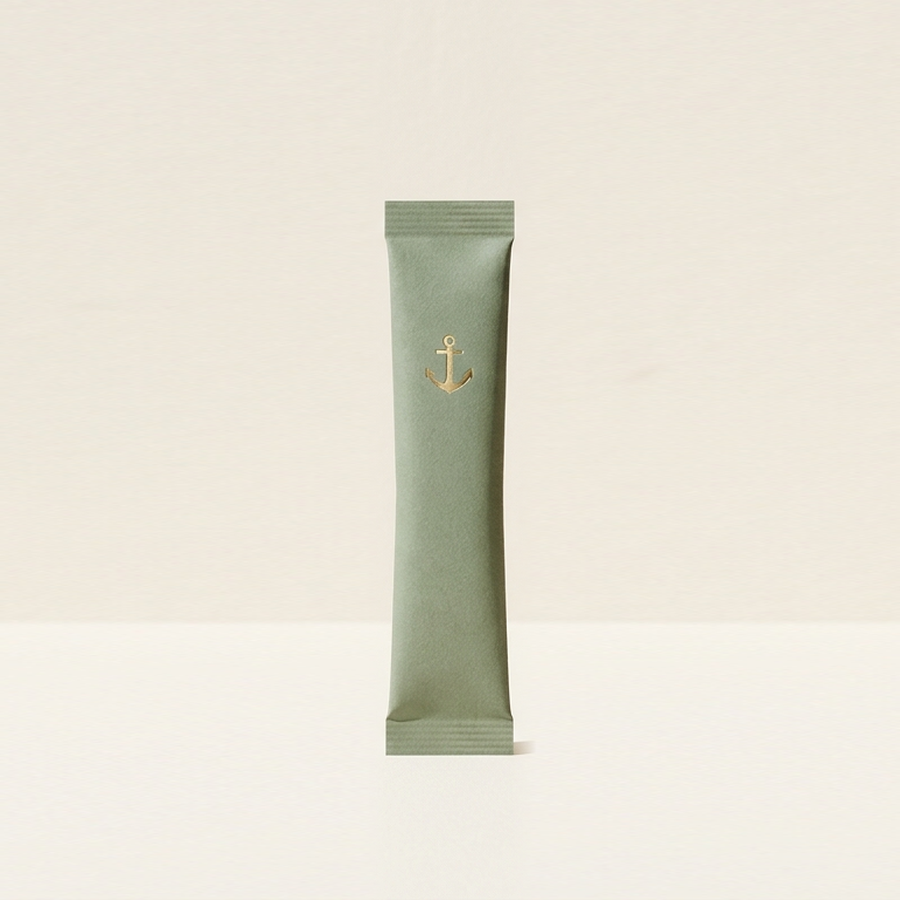
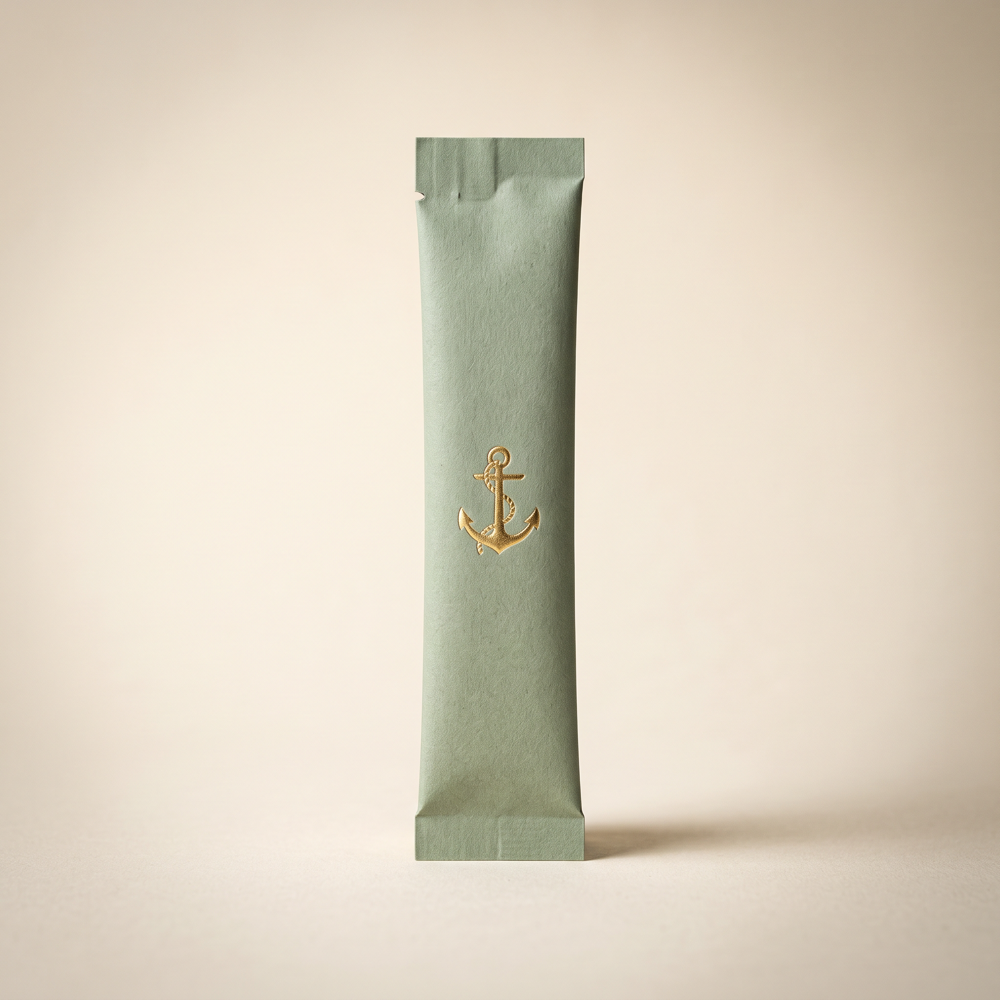
feat: Purchase Now button, new stick photos, blue/white section pattern
- Replace add-to-cart bubble + "See formula" link with a single full-width
  Purchase Now button per formula panel
- Swap in new product stick photography (GI Relief, Muscle Guard, Complete)
- Merge Gap section + stats bar into one navy section, fix text contrast
- Make Inside Every Stick section navy (was cream, matched Gap above it)
- Make Real People Real Results section white (was dark), fix text contrast

diff --git a/styles.css b/styles.css
@@ -268,20 +268,21 @@ h2 { font-size: clamp(1.9rem, 3.5vw, 2.8rem); }
 .stat-sep { width: 1px; height: 2.5rem; background: rgba(255,255,255,.12); }
 
 /* ===== SCIENCE ===== */
-.science-section { background: var(--cream); }
+.science-section { background: var(--ink); }
+.science-section h2 { color: #fff; }
 .science-inner { display: grid; grid-template-columns: 1fr 1fr; gap: 4rem; align-items: stretch; }
 .sci-chart { display: flex; flex-direction: column; justify-content: center; }
 .sci-chart .bars { gap: 1.6rem; }
-.sci-body { font-size: .95rem; margin-bottom: 1rem; }
+.sci-body { font-size: .95rem; margin-bottom: 1rem; color: rgba(255,255,255,.65); }
 .sci-badges { display: flex; flex-wrap: wrap; gap: .5rem; margin-top: 1.5rem; }
-.badge { font-family: -apple-system, sans-serif; font-size: .7rem; font-weight: 600; letter-spacing: .06em; text-transform: uppercase; border: 1.5px solid var(--ink); border-radius: var(--rad-pill); padding: .35rem 1rem; color: var(--ink); }
-.chart-title { font-family: -apple-system, sans-serif; font-size: .78rem; letter-spacing: .05em; color: var(--muted); margin-bottom: 1.2rem; }
+.badge { font-family: -apple-system, sans-serif; font-size: .7rem; font-weight: 600; letter-spacing: .06em; text-transform: uppercase; border: 1.5px solid rgba(255,255,255,.35); border-radius: var(--rad-pill); padding: .35rem 1rem; color: #fff; }
+.chart-title { font-family: -apple-system, sans-serif; font-size: .78rem; letter-spacing: .05em; color: rgba(255,255,255,.6); margin-bottom: 1.2rem; }
 .bars { display: flex; flex-direction: column; gap: 1rem; }
 .bar-row { display: grid; grid-template-columns: 90px 1fr 40px; align-items: center; gap: .8rem; }
-.bar-row span { font-family: -apple-system, sans-serif; font-size: .8rem; color: var(--muted); }
-.bar-row strong { font-family: -apple-system, sans-serif; font-size: .8rem; font-weight: 700; }
-.bar { height: 10px; background: rgba(0,0,0,.08); border-radius: 100px; overflow: hidden; }
-.bar i { display: block; height: 100%; width: 0; background: var(--terra); border-radius: 100px; transition: width 1s cubic-bezier(.2,0,.2,1); }
+.bar-row span { font-family: -apple-system, sans-serif; font-size: .8rem; color: rgba(255,255,255,.6); }
+.bar-row strong { font-family: -apple-system, sans-serif; font-size: .8rem; font-weight: 700; color: #fff; }
+.bar { height: 10px; background: rgba(255,255,255,.12); border-radius: 100px; overflow: hidden; }
+.bar i { display: block; height: 100%; width: 0; background: var(--gold); border-radius: 100px; transition: width 1s cubic-bezier(.2,0,.2,1); }
 
 /* ===== INSIDE EVERY STICK (dark accordion) ===== */
 .inside-dark {
@@ -355,10 +356,10 @@ h2 { font-size: clamp(1.9rem, 3.5vw, 2.8rem); }
 .acc-item.open .acc-a { display: block; }
 
 /* ===== PROTOCOL (three-phase tabs) ===== */
-.protocol-section { background: var(--cream); }
+.protocol-section { background: var(--ink); }
 .protocol-head { text-align: center; max-width: 640px; margin: 0 auto 3rem; }
-.protocol-head h2 { font-size: clamp(1.8rem, 3.4vw, 2.6rem); margin: .5rem 0 .8rem; }
-.protocol-sub { font-family: -apple-system, sans-serif; font-size: .95rem; }
+.protocol-head h2 { font-size: clamp(1.8rem, 3.4vw, 2.6rem); margin: .5rem 0 .8rem; color: #fff; }
+.protocol-sub { font-family: -apple-system, sans-serif; font-size: .95rem; color: rgba(255,255,255,.65); }
 
 .protocol-tabs {
   display: grid;
@@ -394,16 +395,16 @@ h2 { font-size: clamp(1.9rem, 3.5vw, 2.8rem); }
 .protocol-panel { display: none; }
 .protocol-panel.active { display: block; }
 .protocol-panel-eyebrow { display: block; font-family: -apple-system, sans-serif; font-size: .72rem; font-weight: 700; letter-spacing: .12em; text-transform: uppercase; color: var(--accent); margin-bottom: .8rem; }
-.protocol-panel h3 { font-size: clamp(1.5rem, 2.6vw, 2rem); margin-bottom: 1rem; }
-.protocol-panel p { font-family: -apple-system, sans-serif; font-size: .95rem; margin-bottom: 1.5rem; }
+.protocol-panel h3 { font-size: clamp(1.5rem, 2.6vw, 2rem); margin-bottom: 1rem; color: #fff; }
+.protocol-panel p { font-family: -apple-system, sans-serif; font-size: .95rem; margin-bottom: 1.5rem; color: rgba(255,255,255,.65); }
 .protocol-list { list-style: none; margin-bottom: 2rem; }
 .protocol-list li {
   position: relative;
   font-family: -apple-system, sans-serif;
   font-size: .92rem;
-  color: var(--ink);
+  color: rgba(255,255,255,.85);
   padding: .8rem 0 .8rem 1.3rem;
-  border-top: 1px solid var(--border);
+  border-top: 1px solid rgba(255,255,255,.12);
 }
 .protocol-list li::before {
   content: '';
@@ -415,20 +416,18 @@ h2 { font-size: clamp(1.9rem, 3.5vw, 2.8rem); }
   border-radius: 50%;
   background: var(--accent, var(--gold));
 }
-.protocol-list li:last-child { border-bottom: 1px solid var(--border); }
-.protocol-recommend {
-  display: flex;
-  align-items: center;
-  flex-wrap: wrap;
-  gap: .5rem 1.2rem;
-  background: var(--cream);
-  border-left: 3px solid var(--accent, var(--gold));
-  border-radius: 8px;
-  padding: 1.1rem 1.4rem;
+.protocol-list li:last-child { border-bottom: 1px solid rgba(255,255,255,.12); }
+.btn-buy {
+  display: block;
+  width: 100%;
+  background: var(--white);
+  color: var(--ink);
+  border-color: var(--white);
+  padding: 1.05rem 1.4rem;
+  font-size: .95rem;
+  text-align: center;
 }
-.protocol-recommend-label { font-family: -apple-system, sans-serif; font-size: .68rem; font-weight: 700; letter-spacing: .1em; text-transform: uppercase; color: var(--muted); width: 100%; }
-.protocol-recommend .btn { flex-shrink: 0; padding: .5rem 1.4rem; }
-.protocol-recommend a { font-family: -apple-system, sans-serif; font-size: .85rem; font-weight: 700; color: var(--ink); text-decoration: underline; }
+.btn-buy:hover { background: var(--accent, var(--gold)); border-color: var(--accent, var(--gold)); color: #fff; }
 
 .protocol-visual {
   position: relative;
@@ -460,10 +459,10 @@ body.theme-light .protocol-section { background: #fff; }
 }
 
 /* ===== REEL CAROUSEL ===== */
-.reel-section { padding: 4rem 0; background: var(--ink); overflow: hidden; }
-.reel-head { text-align: center; margin-bottom: 2.5rem; color: #fff; }
-.reel-head h2 { color: #fff; font-size: clamp(1.7rem, 3vw, 2.4rem); }
-.reel-head p { color: rgba(255,255,255,.7); font-family: -apple-system, sans-serif; font-size: .9rem; margin-top: .4rem; }
+.reel-section { padding: 4rem 0; background: var(--white); overflow: hidden; }
+.reel-head { text-align: center; margin-bottom: 2.5rem; color: var(--ink); }
+.reel-head h2 { color: var(--ink); font-size: clamp(1.7rem, 3vw, 2.4rem); }
+.reel-head p { color: rgba(19,25,32,.6); font-family: -apple-system, sans-serif; font-size: .9rem; margin-top: .4rem; }
 .reel-carousel-wrap { overflow: hidden; }
 .reel-carousel {
   display: flex;

diff --git a/index.html b/index.html
@@ -231,11 +231,7 @@
           <li><strong>Soluble fiber, 5g</strong> — keeps things moving without cramping</li>
           <li><strong>Electrolyte blend, 720mg</strong> — replaces what slowed digestion blocks</li>
         </ul>
-        <div class="protocol-recommend">
-          <span class="protocol-recommend-label">Recommended</span>
-          <button type="button" class="btn btn-ink btn-sm add-btn" data-id="gi" data-name="GI Relief" data-price="69.99" data-img="images/stick-gi-relief.png" data-sub="30 sticks">Add to Cart — $69.99</button>
-          <a href="#gi-relief">See formula →</a>
-        </div>
+        <button type="button" class="btn btn-buy add-btn" data-id="gi" data-name="GI Relief" data-price="69.99" data-img="images/stick-gi-relief.png" data-sub="30 sticks">Purchase Now — $69.99</button>
       </div>
 
       <div class="protocol-panel" data-phase="2" style="--accent:#b4674a">
@@ -248,11 +244,7 @@
           <li><strong>Creatine monohydrate, 3g</strong> — preserves strength and power output</li>
           <li><strong>Leucine, 2.5g</strong> — the trigger dose for muscle protein synthesis</li>
         </ul>
-        <div class="protocol-recommend">
-          <span class="protocol-recommend-label">Recommended</span>
-          <button type="button" class="btn btn-gold btn-sm add-btn" data-id="mg" data-name="Muscle Guard" data-price="69.99" data-img="images/stick-muscle-guard.png" data-sub="30 sticks">Add to Cart — $69.99</button>
-          <a href="#muscle-guard">See formula →</a>
-        </div>
+        <button type="button" class="btn btn-buy add-btn" data-id="mg" data-name="Muscle Guard" data-price="69.99" data-img="images/stick-muscle-guard.png" data-sub="30 sticks">Purchase Now — $69.99</button>
       </div>
 
       <div class="protocol-panel" data-phase="3" style="--accent:#42618c">
@@ -265,11 +257,7 @@
           <li><strong>Vitamin D3, 2000 IU</strong> — mood, bone, and immune support</li>
           <li><strong>Sodium blend, 1000mg</strong> — hydration and blood pressure baseline</li>
         </ul>
-        <div class="protocol-recommend">
-          <span class="protocol-recommend-label">Recommended</span>
-          <button type="button" class="btn btn-ink btn-sm add-btn" data-id="cp" data-name="Complete" data-price="69.99" data-img="images/stick-navy.png" data-sub="30 sticks">Add to Cart — $69.99</button>
-          <a href="#complete">See formula →</a>
-        </div>
+        <button type="button" class="btn btn-buy add-btn" data-id="cp" data-name="Complete" data-price="69.99" data-img="images/stick-navy.png" data-sub="30 sticks">Purchase Now — $69.99</button>
       </div>
 
       <div class="protocol-visual">
